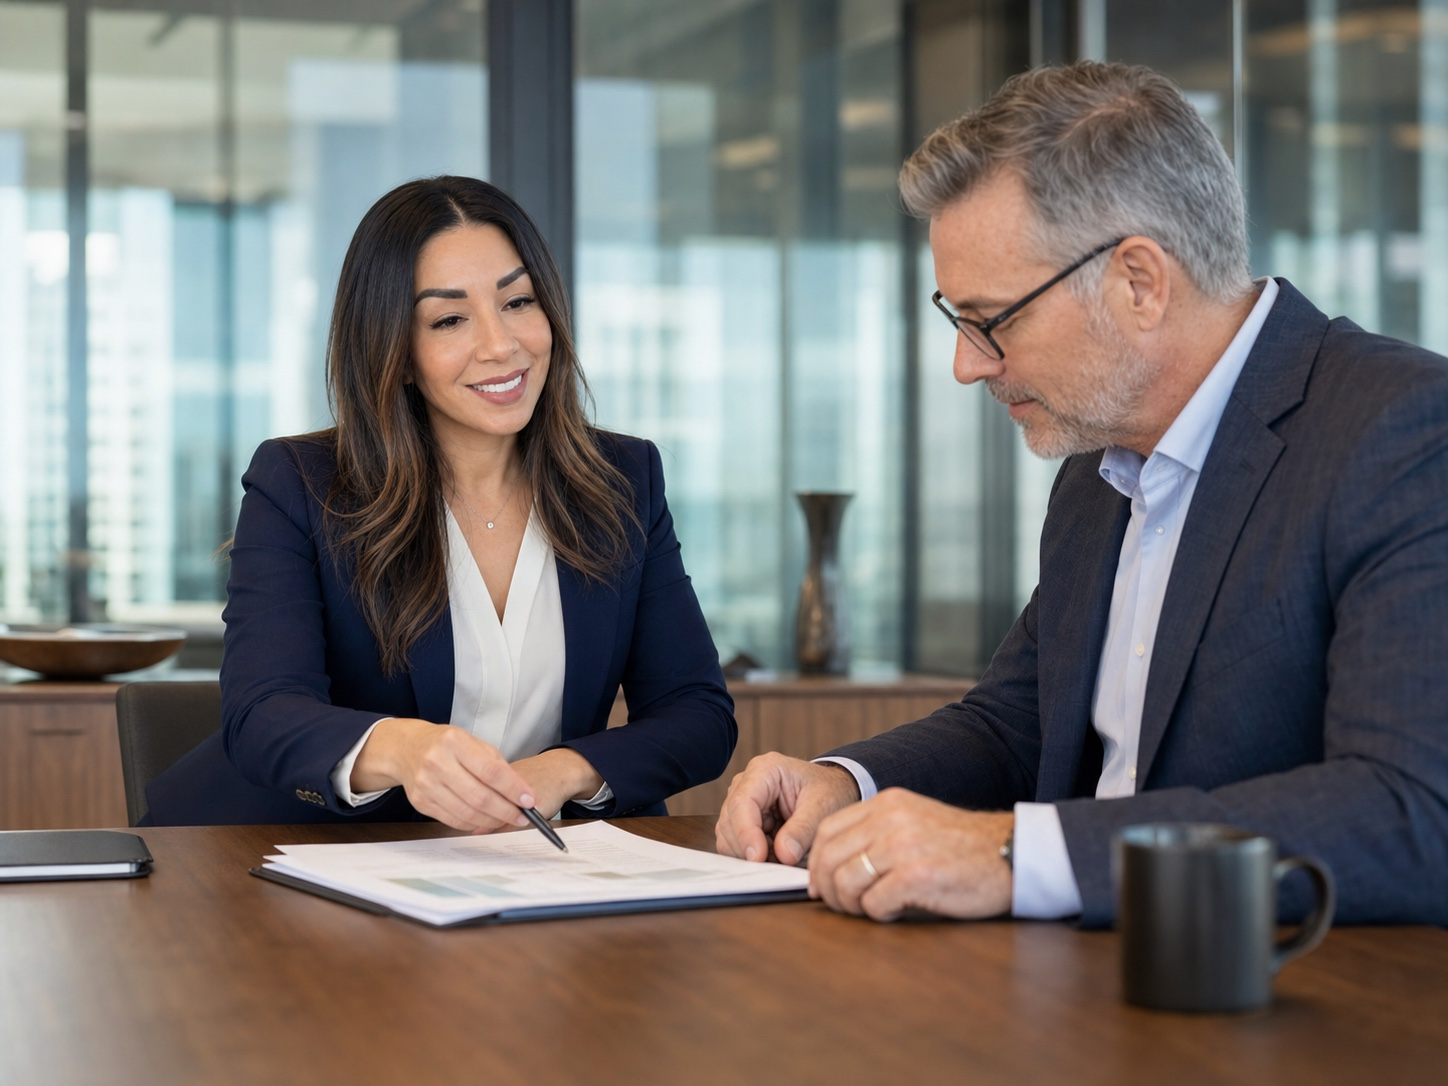
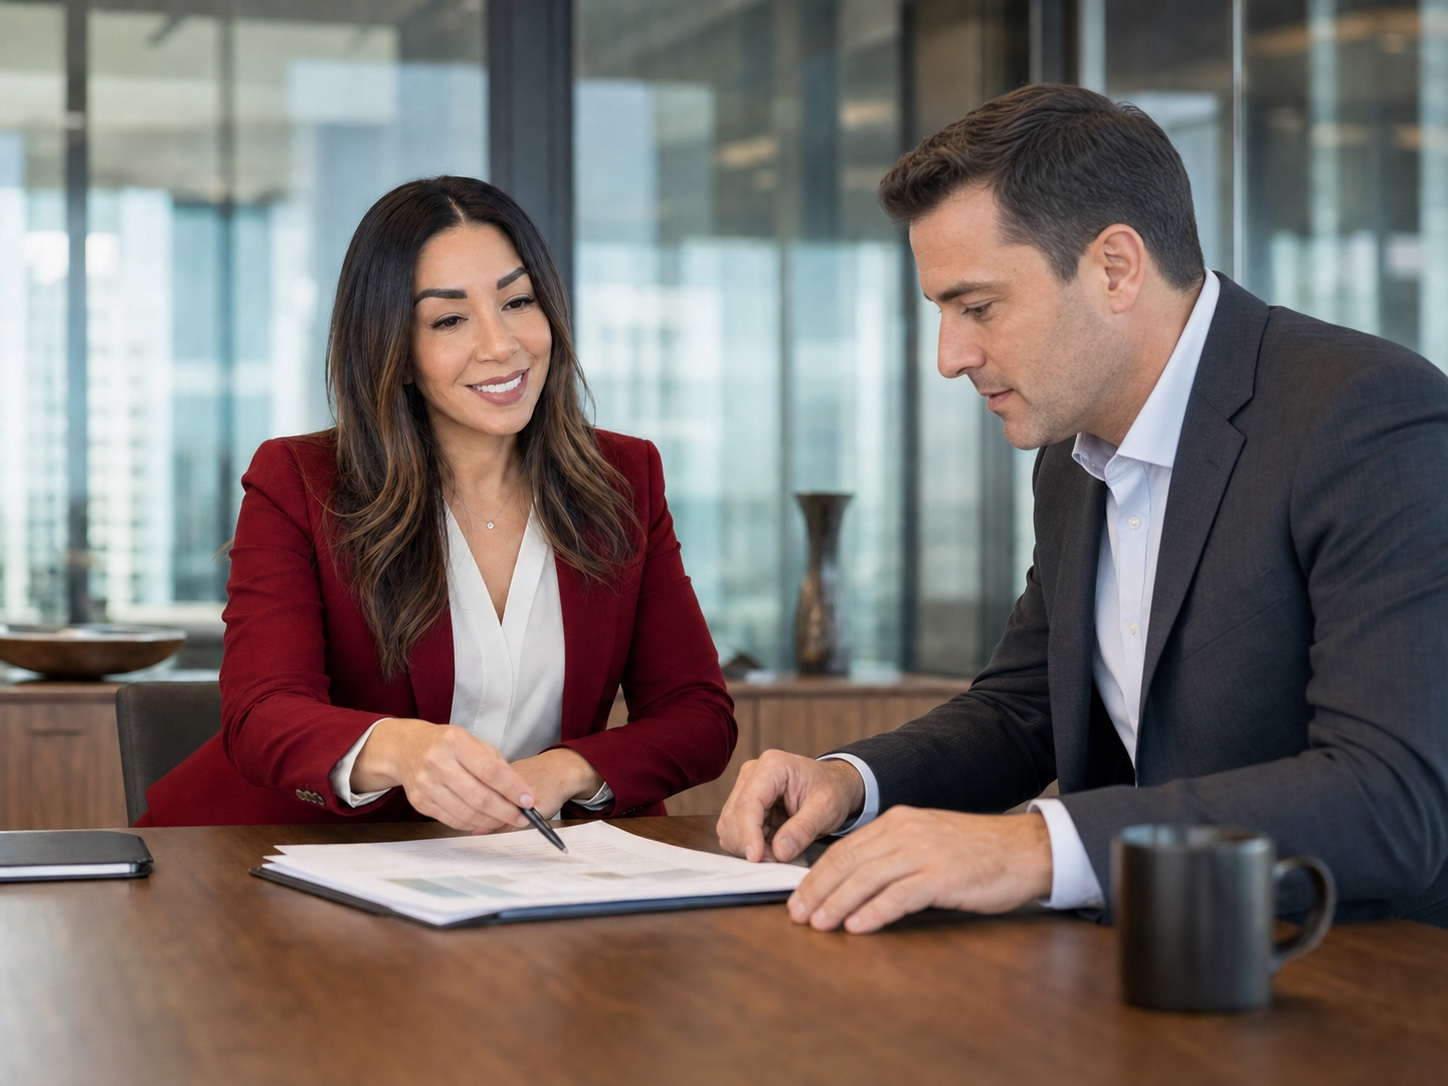
Update advisory photo and contact details

diff --git a/src/lib/site.ts b/src/lib/site.ts
@@ -35,14 +35,14 @@ export const site = {
     "https://calendar.google.com/calendar/u/0/appointments/schedules/AcZssZ2nvRdu3yjBWEH_WIS9nSTuvrkNDnPeZJFs-0RgDHMwmtTDhaBvJwg6fqSe--4MRud3mPWWdNvg",
 
   /** ✅ Shown in footer + contact page. */
-  location: "1301 N Mechanic St, El Campo, TX 77437",
+  location: "207 S Oklahoma Dr, Celina, TX 75009",
   /** Google Maps link for the address above. */
-  mapUrl: "https://www.google.com/maps/search/?api=1&query=1301+N+Mechanic+St+El+Campo+TX+77437",
+  mapUrl: "https://www.google.com/maps/search/?api=1&query=207+S+Oklahoma+Dr+Celina+TX+75009",
 
   /** ✅ Set — phone shown publicly. tel: links use the digits-only form. */
-  phone: "+1(324)888-6889",
+  phone: "+1 (904) 666-3233",
   /** Machine-readable tel: link (digits only). */
-  phoneHref: "tel:+13248886889",
+  phoneHref: "tel:+19046663233",
 
   /** ⚙ EDIT ME — founded year for the footer + about. */
   foundedYear: 2024,

diff --git a/src/app/page.tsx b/src/app/page.tsx
@@ -244,7 +244,7 @@ function ValueProps() {
           <div className="lg:col-span-5">
             <div className="relative aspect-[4/3] overflow-hidden rounded-2xl shadow-lg">
               <Image
-                src="/images/home-about.jpg?v=20260725"
+                src="/images/home-about.jpg?v=20260725-red"
                 alt="Anastasia Lowe working alongside a business owner to clarify strategy"
                 fill
                 sizes="(min-width: 1024px) 30rem, 100vw"
@@ -506,7 +506,7 @@ function TexasBanner() {
             Local roots. National reach.
           </h2>
           <p className="mt-4 text-lg leading-relaxed text-navy-100">
-            Headquartered in El Campo, we work with owner-led businesses across
+            Headquartered in Celina, we work with owner-led businesses across
             Texas and beyond — on-site where it helps, remote where it&apos;s
             faster.
           </p>

diff --git a/next.config.ts b/next.config.ts
@@ -37,7 +37,7 @@ const nextConfig: NextConfig = {
   images: {
     localPatterns: [
       { pathname: "/images/**", search: "" },
-      { pathname: "/images/home-about.jpg", search: "?v=20260725" },
+      { pathname: "/images/home-about.jpg", search: "?v=20260725-red" },
     ],
   },
   async headers() {

diff --git a/README.md b/README.md
@@ -59,7 +59,8 @@ Almost all site content lives in **`src/lib/site.ts`**. Edit values there and th
 
 **Already set with your real details:**
 - `contactEmail`: `loweadvisory@gmail.com`
-- `phone`: `+1(324)888-6889`
+- `phone`: `+1 (904) 666-3233`
+- `location`: `207 S Oklahoma Dr, Celina, TX 75009`
 
 ### Add a blog post
 Create a new markdown file in `src/content/posts/`:
